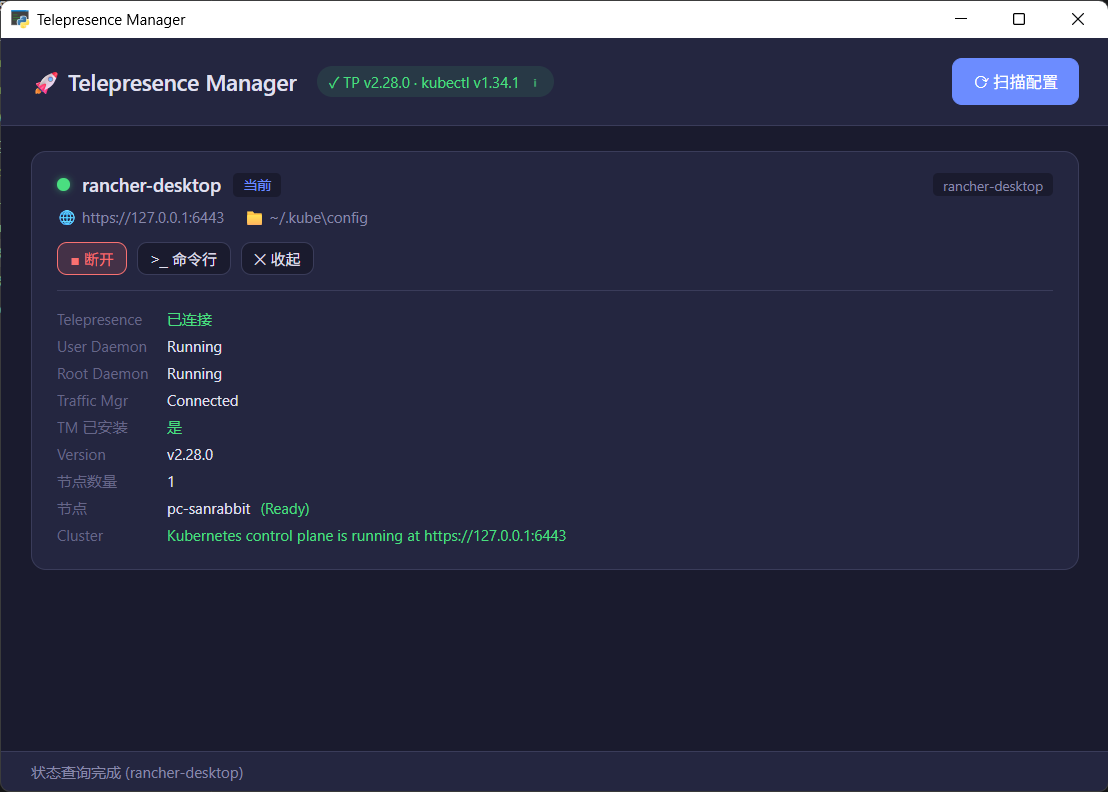
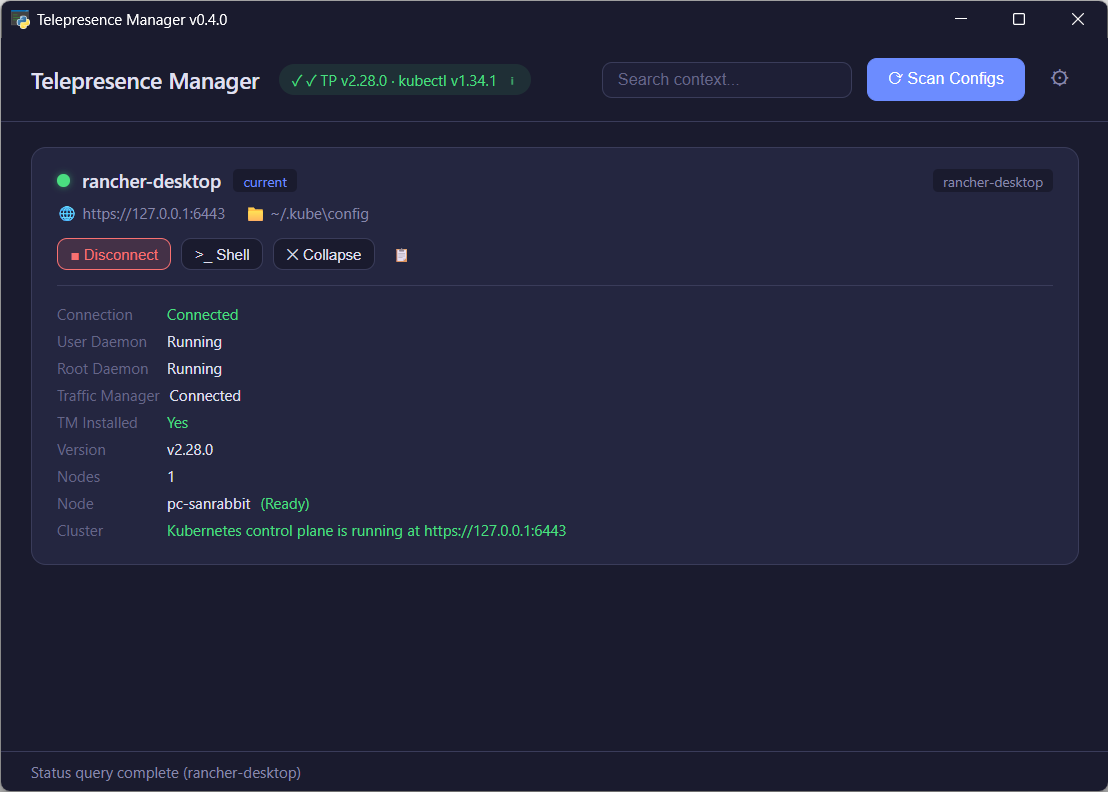
docs: update screenshots for v0.4.0 multilingual UI
- Add screenshot-zh.png for Chinese UI
- Update screenshot.png with English UI
- Point README.zh.md to Chinese screenshot

diff --git a/README.zh.md b/README.zh.md
@@ -21,7 +21,7 @@ Windows 桌面 GUI 工具，用于管理 [Telepresence](https://www.telepresence
 
 ## 截图
 
-![](./assets/screenshot.png)
+![](./assets/screenshot-zh.png)
 
 ## 前置依赖
 